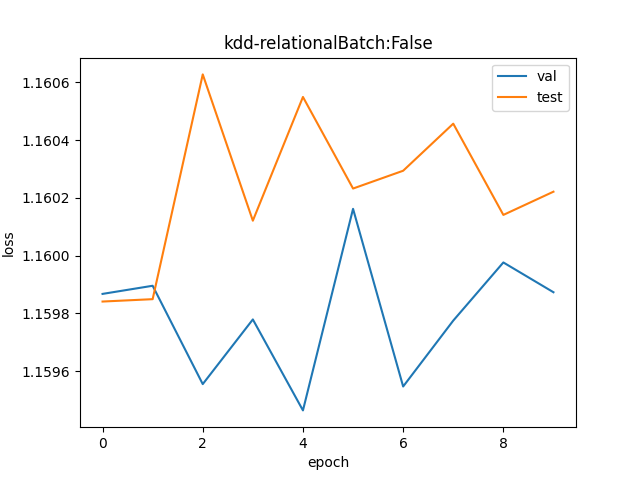
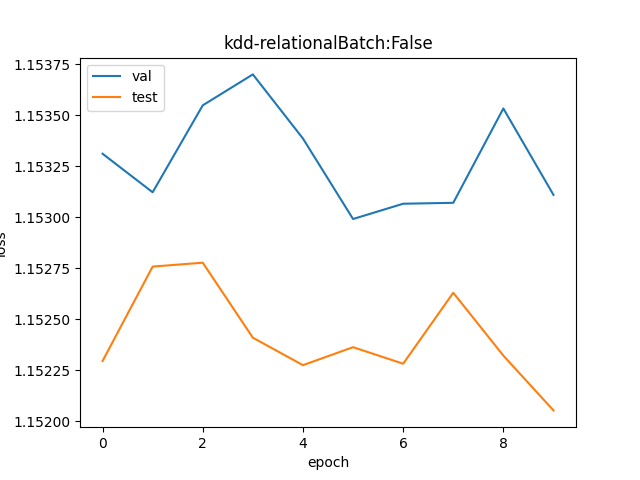
missing kdd resnet results

diff --git a/launch.py b/launch.py
@@ -9,7 +9,7 @@ else:
 
 
 
-models = ["mlp"] # "resnet"]
+models = ["resnet"] # "resnet"]
 batch_sizes = [128]
 epochs = 10
 reproduction = 10
